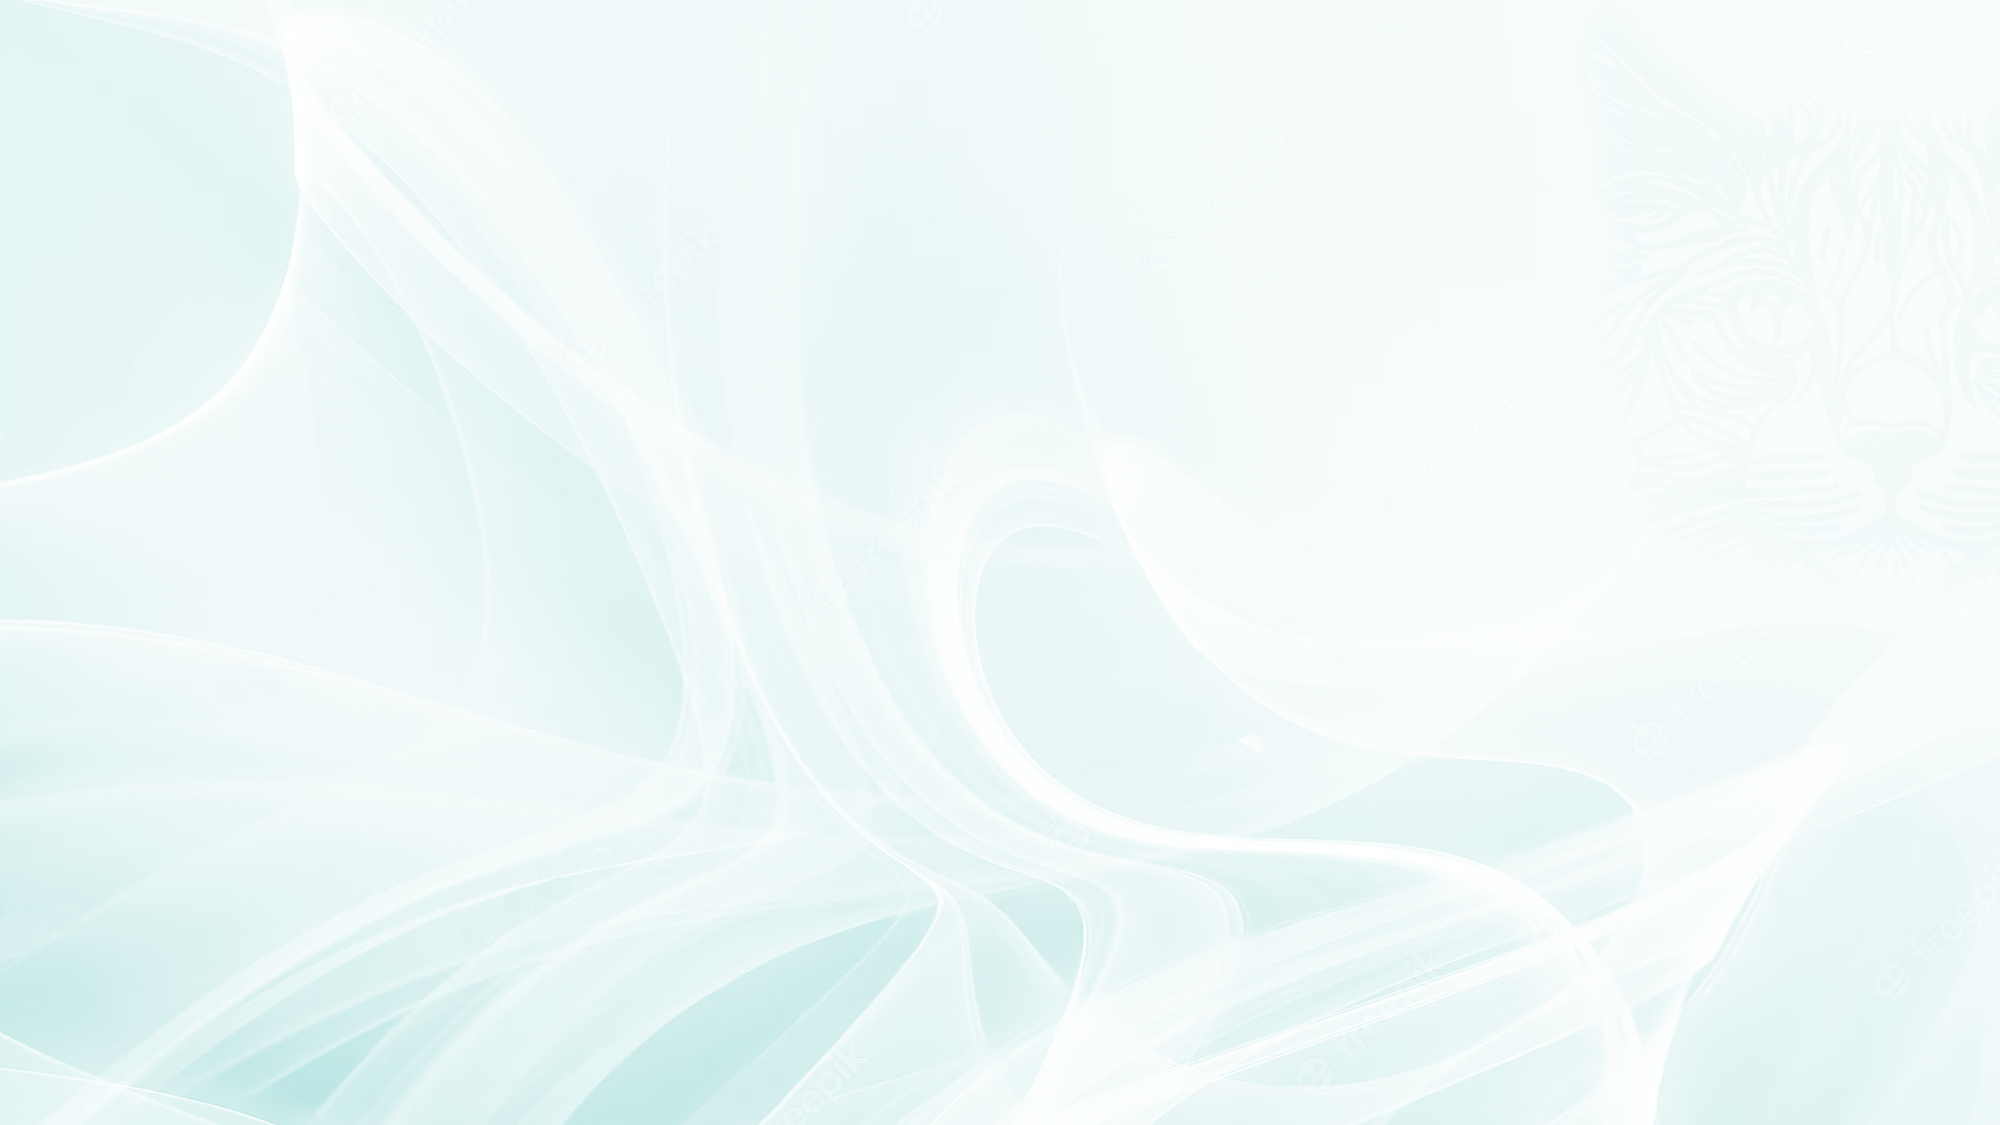
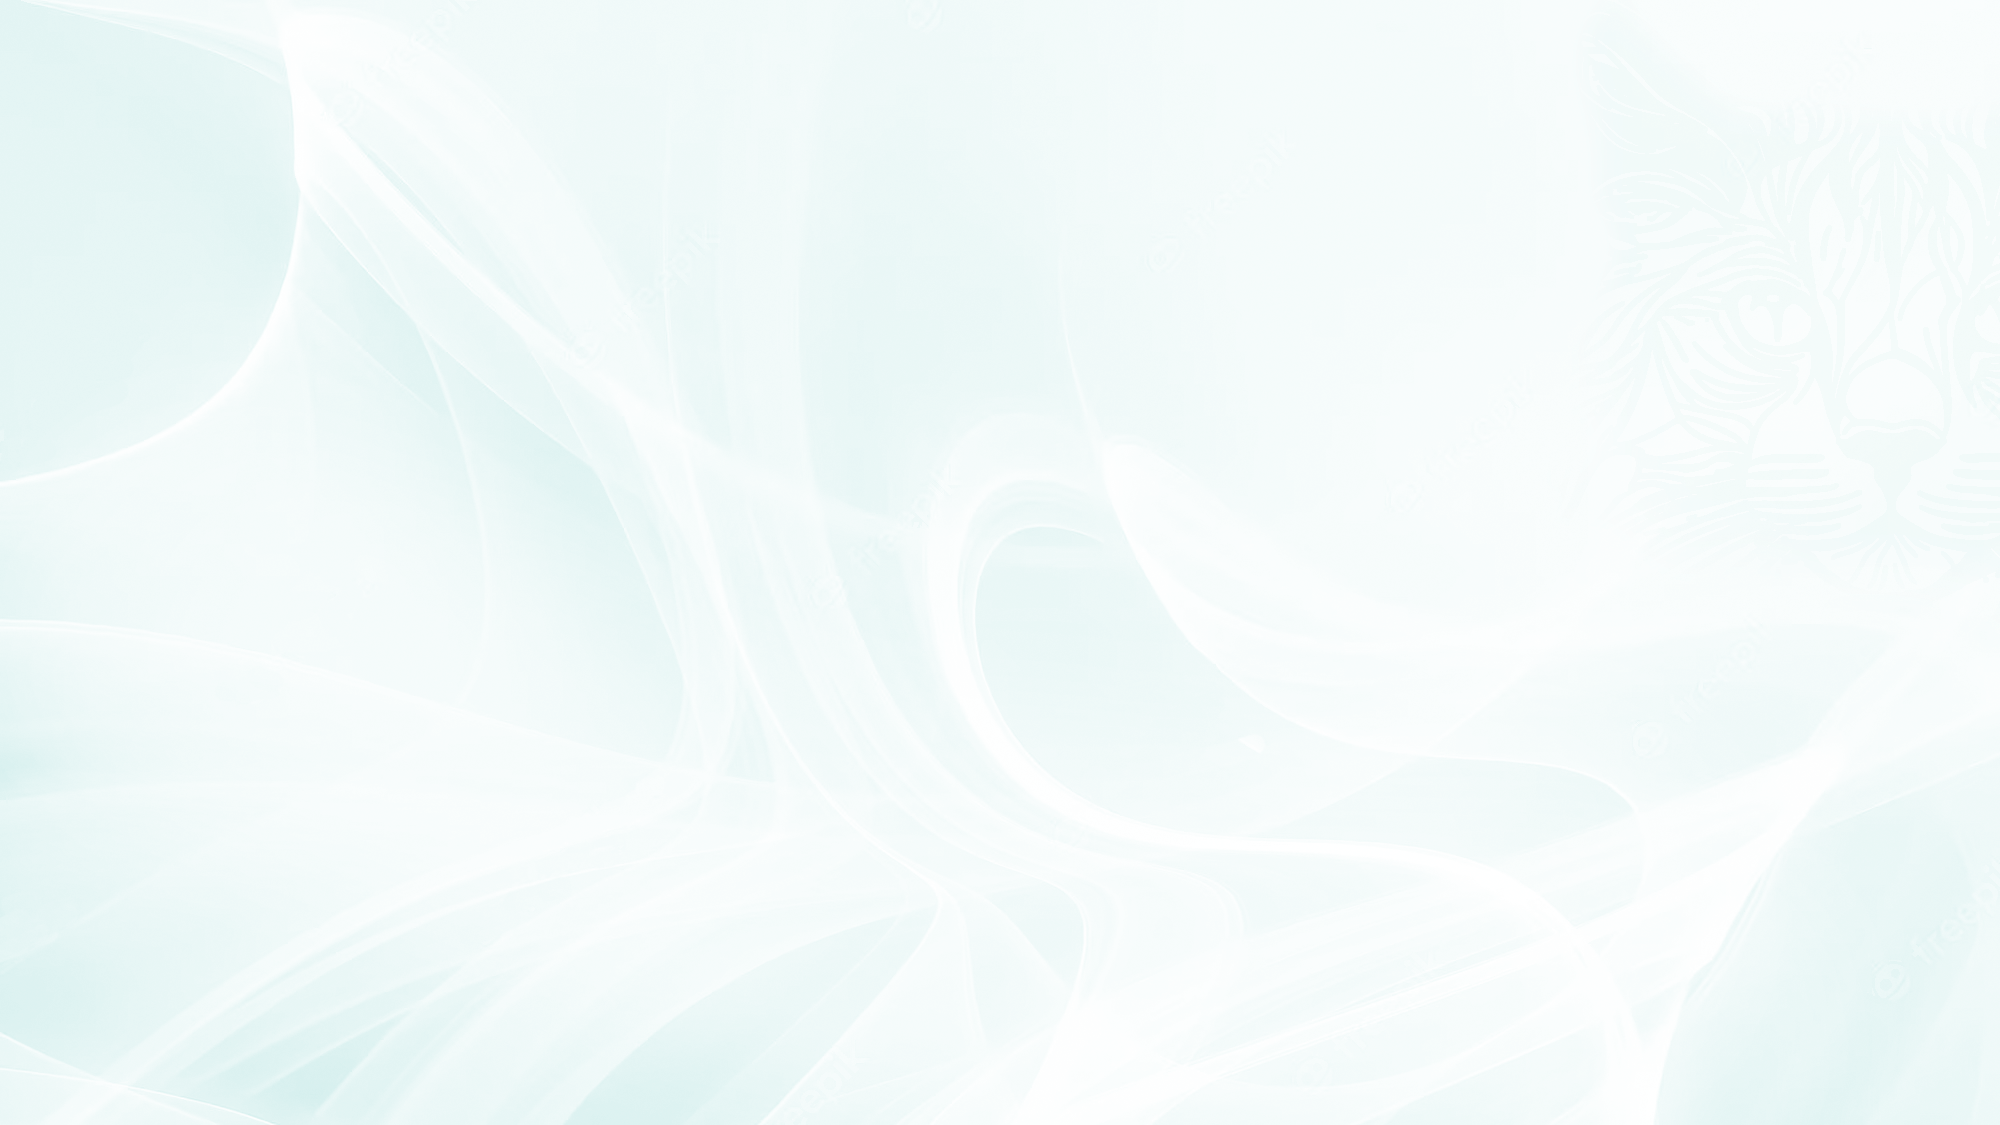
add bg all pages

Changed region(s): [[0.31, 0.8089, 0.465, 1.0], [0.496, 0.7778, 0.558, 0.8711], [0.124, 0.9333, 0.186, 0.9956]]

diff --git a/src/components/Home/TransactionList/TransactionList.jsx b/src/components/Home/TransactionList/TransactionList.jsx
@@ -23,6 +23,7 @@ import EditIcon from "@mui/icons-material/Edit";
 import EditModal from "../../Modal/EditModal.jsx";
 import TransactionBasicMenu from "./TransactionBasicMenu.jsx";
 
+
 export default function TransactionList({ currency, showAllTransactions }) {
   const [transactions, setTransactions] = useState([]);
   const [loading, setLoading] = useState(true);
@@ -232,7 +233,7 @@ export default function TransactionList({ currency, showAllTransactions }) {
 
   return (
     <Grid container>
-      {transactions.length != 0 ? (
+      {transactions ? (
         <>
           <Grid item xs={10}>
             <Stack spacing={3}>
@@ -269,15 +270,16 @@ export default function TransactionList({ currency, showAllTransactions }) {
               placeItems: "center",
             }}
           >
-            <Box display="flex" justifyContent="center" alignItems="center" >
-              <Card sx={{boxShadow: "5px 5px 15px #BBBBBB"}}>
-                <img
+            <Box display="flex" justifyContent="center" alignItems="center" sx={{}} >
+              
+                <img 
+              
                   className="img-fluid"
                   src="/src/assets/SleepCat.png"
                   width="100%"
                   alt="Un gato durmiendo"
                 />
-              </Card>
+              
             </Box>
           </Grid>
 

diff --git a/src/pages/Exchange/Exchange.jsx b/src/pages/Exchange/Exchange.jsx
@@ -84,8 +84,10 @@ const ExchangeCard = () => {
   };
 
   return (
-    <Box className="exchangeBox">
-      <Card variant="outlined">
+    
+    <Grid container className="exchangeBox"  >
+      <Grid item xs={4} />
+      <Card variant="outlined" sx={{ boxShadow: "5px 5px 15px #CFCFCF"}}>
         <CardHeader
           title={`Cambio de Moneda - ${currencyTitle}`}
           subheader={
@@ -239,7 +241,7 @@ const ExchangeCard = () => {
           />
         )}
       </Card>
-    </Box>
+    </Grid>
   );
 };
 export default ExchangeCard;

diff --git a/src/index.css b/src/index.css
@@ -1,11 +1,12 @@
 .css-mskkqm-MuiGrid-root {
-  /*background image transparent*/
+  /*background image transparent with alpha value of 0.7*/
   background-image: url("src/assets/bg2.png");
   background-repeat: no-repeat;
   background-size: cover;
   background-position: center;
-}
+  background-color:rgba(0, 0, 0, 0.08) ;
 
+}
 .css-w9b7xo {
   /*background image transparent*/
   background-image: url("src/assets/bg2.png");

diff --git a/src/pages/Exchange/Exchange.css b/src/pages/Exchange/Exchange.css
@@ -3,5 +3,7 @@
   padding: 100px 0;
   flex-direction: column;
   align-items: center;
-  height: 100%;
+  height: 93vh;
+  background-image: url("src/assets/bg2.png");
+ 
 }

diff --git a/src/pages/InvestmentPage/InvestmentPage.css b/src/pages/InvestmentPage/InvestmentPage.css
@@ -2,4 +2,5 @@
   place-items: center;
   align-items: center;
   height: 93vh;
+  background-image: url("src/assets/bg2.png");
 }
